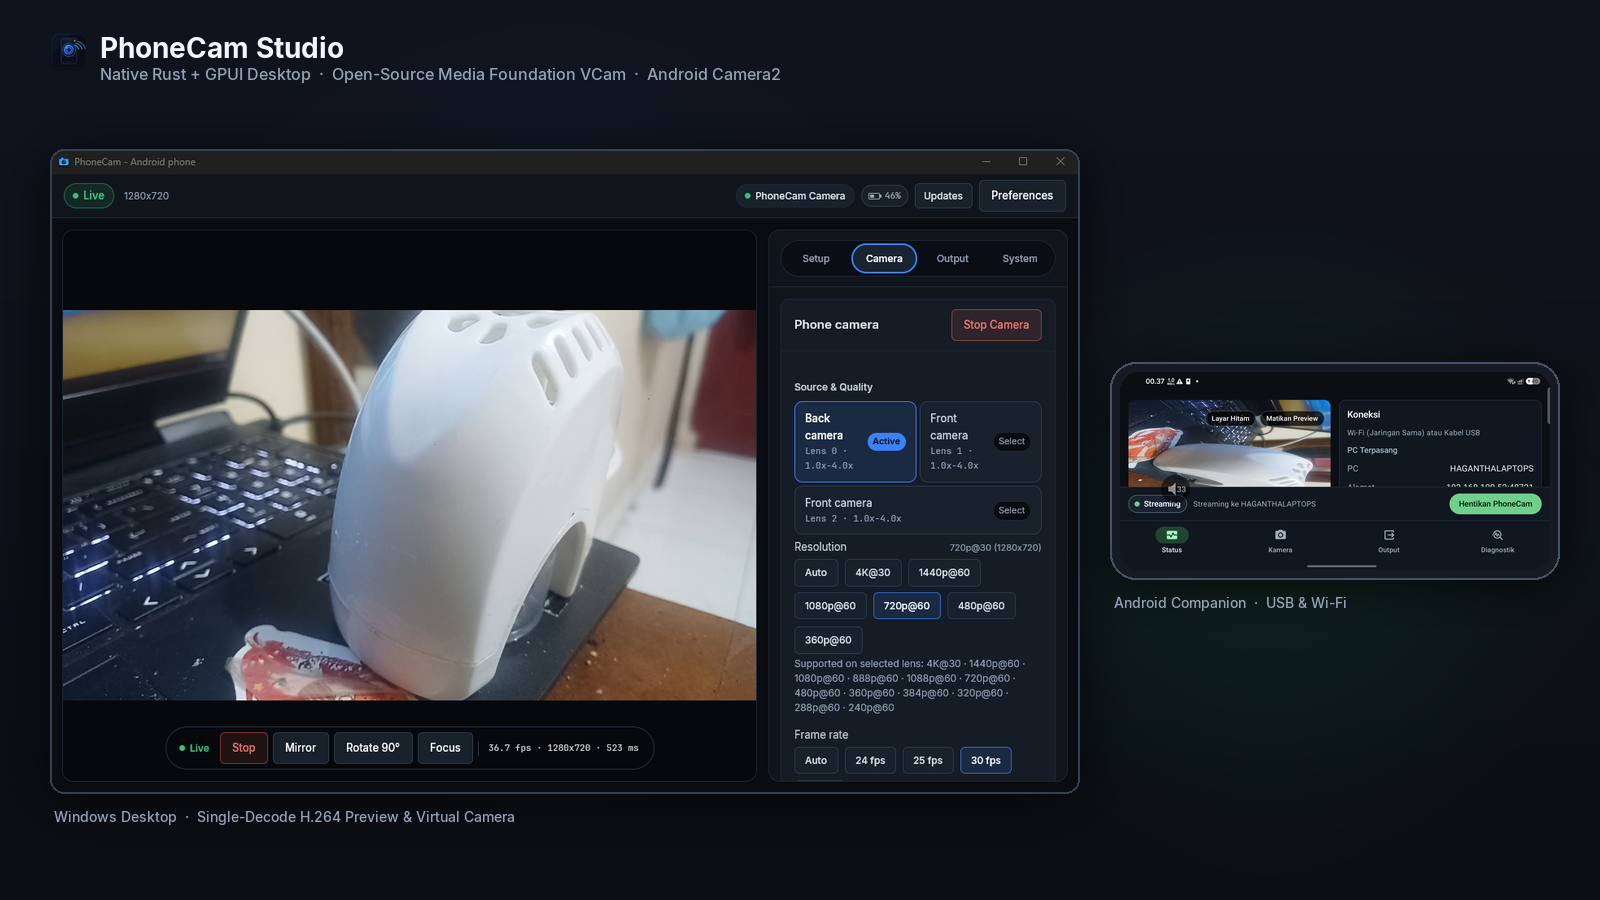
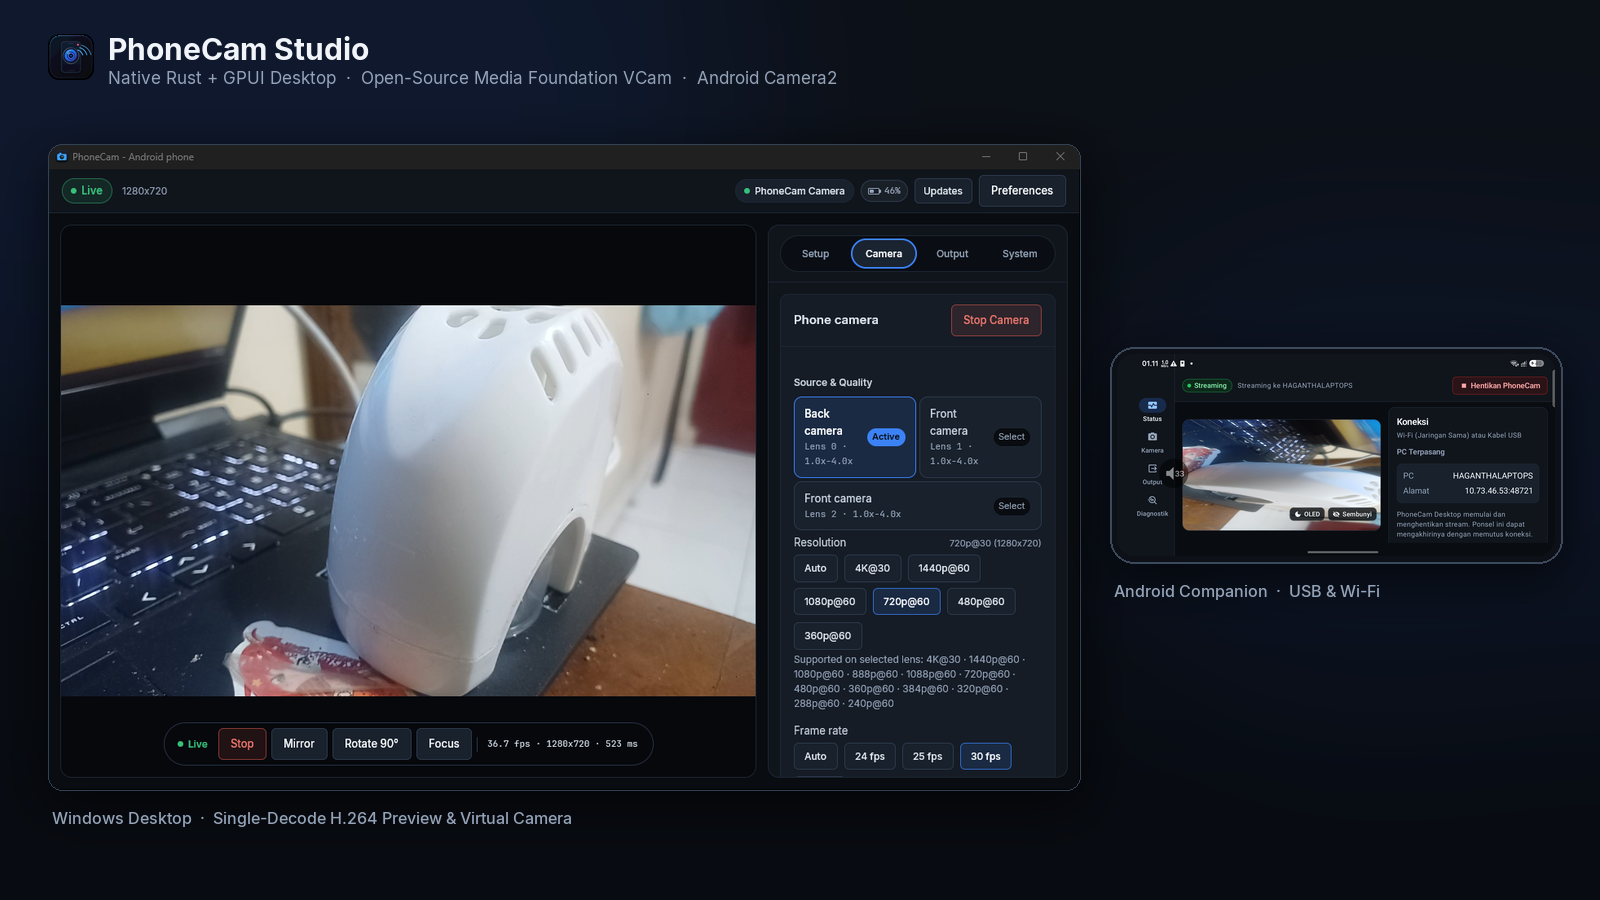
fix(android): fix cutout-safe rail clipping, single-line key-value rows, and refresh studio showcase

diff --git a/apps/android/app/src/main/java/com/phonecam/camera/ui/MainActivity.kt b/apps/android/app/src/main/java/com/phonecam/camera/ui/MainActivity.kt
@@ -580,11 +580,11 @@ private fun StudioNavigationRail(
     NavigationRail(
         modifier = Modifier
             .fillMaxHeight()
-            .width(68.dp)
             .background(MaterialTheme.colorScheme.surface)
             .windowInsetsPadding(
                 WindowInsets.safeDrawing.only(WindowInsetsSides.Start + WindowInsetsSides.Vertical),
-            ),
+            )
+            .width(82.dp),
         containerColor = MaterialTheme.colorScheme.surface,
         contentColor = MaterialTheme.colorScheme.onSurface,
         windowInsets = WindowInsets(0, 0, 0, 0),

diff --git a/apps/android/app/src/main/java/com/phonecam/camera/ui/components/SectionCard.kt b/apps/android/app/src/main/java/com/phonecam/camera/ui/components/SectionCard.kt
@@ -152,7 +152,6 @@ fun LabeledValue(
             text = label,
             style = MaterialTheme.typography.bodyMedium,
             color = MaterialTheme.colorScheme.onSurfaceVariant,
-            modifier = Modifier.weight(1f),
         )
         Text(
             text = value,
@@ -161,7 +160,7 @@ fun LabeledValue(
             ),
             color = valueColor,
             textAlign = TextAlign.End,
-            modifier = Modifier.weight(1.45f),
+            modifier = Modifier.weight(1f),
         )
     }
 }
